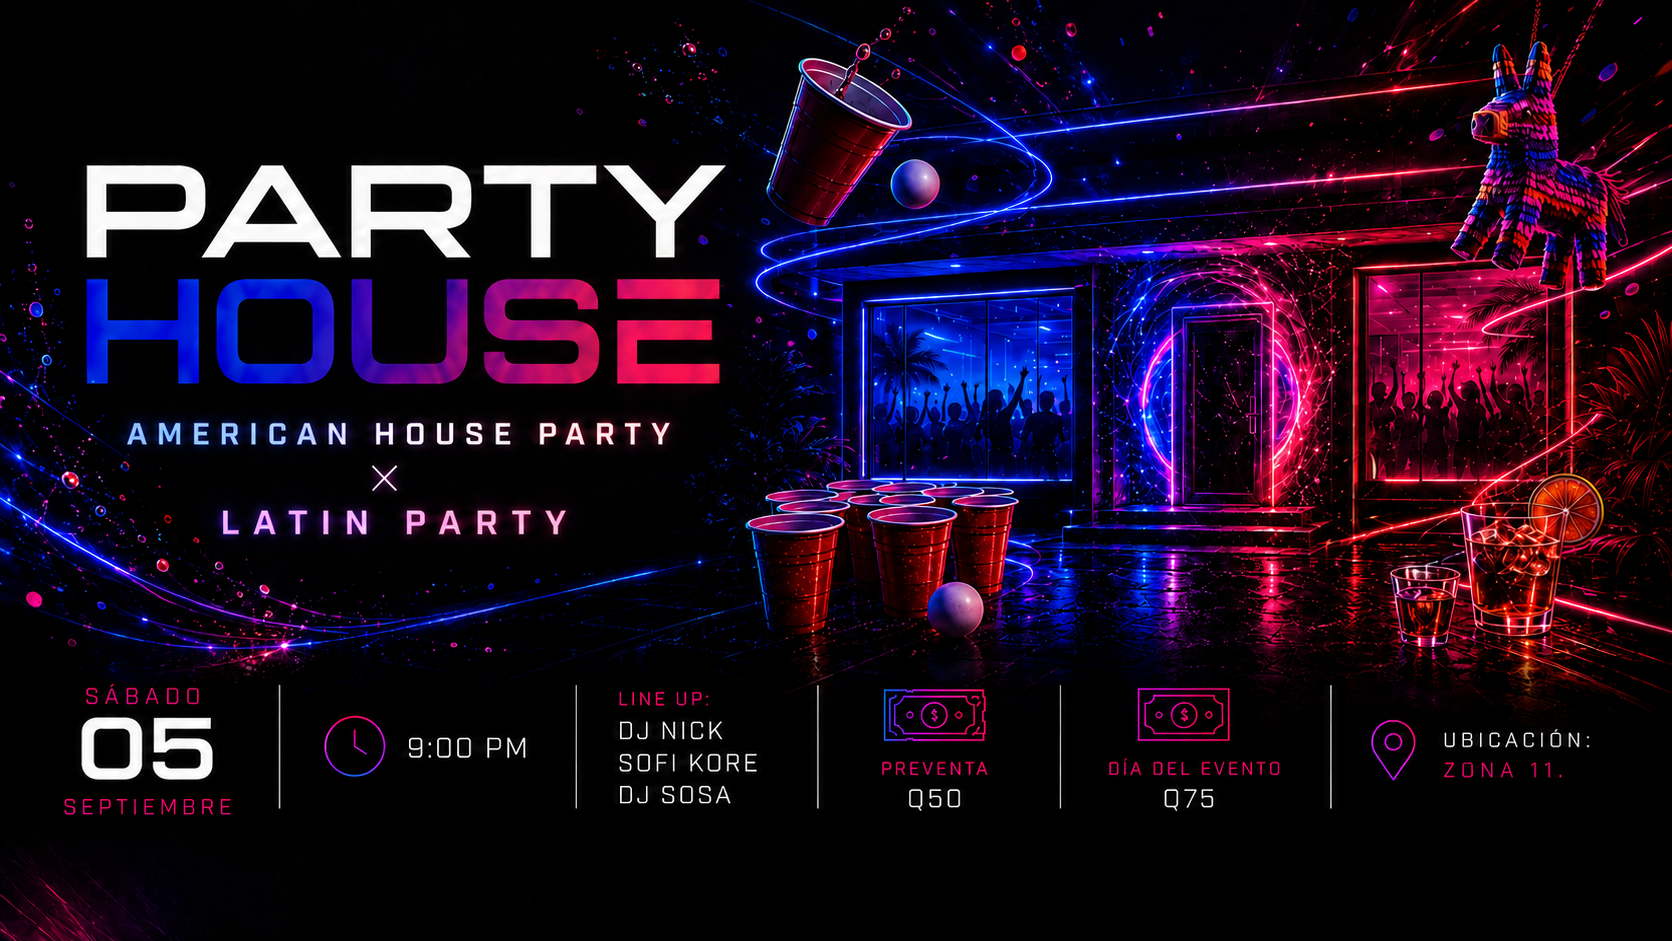
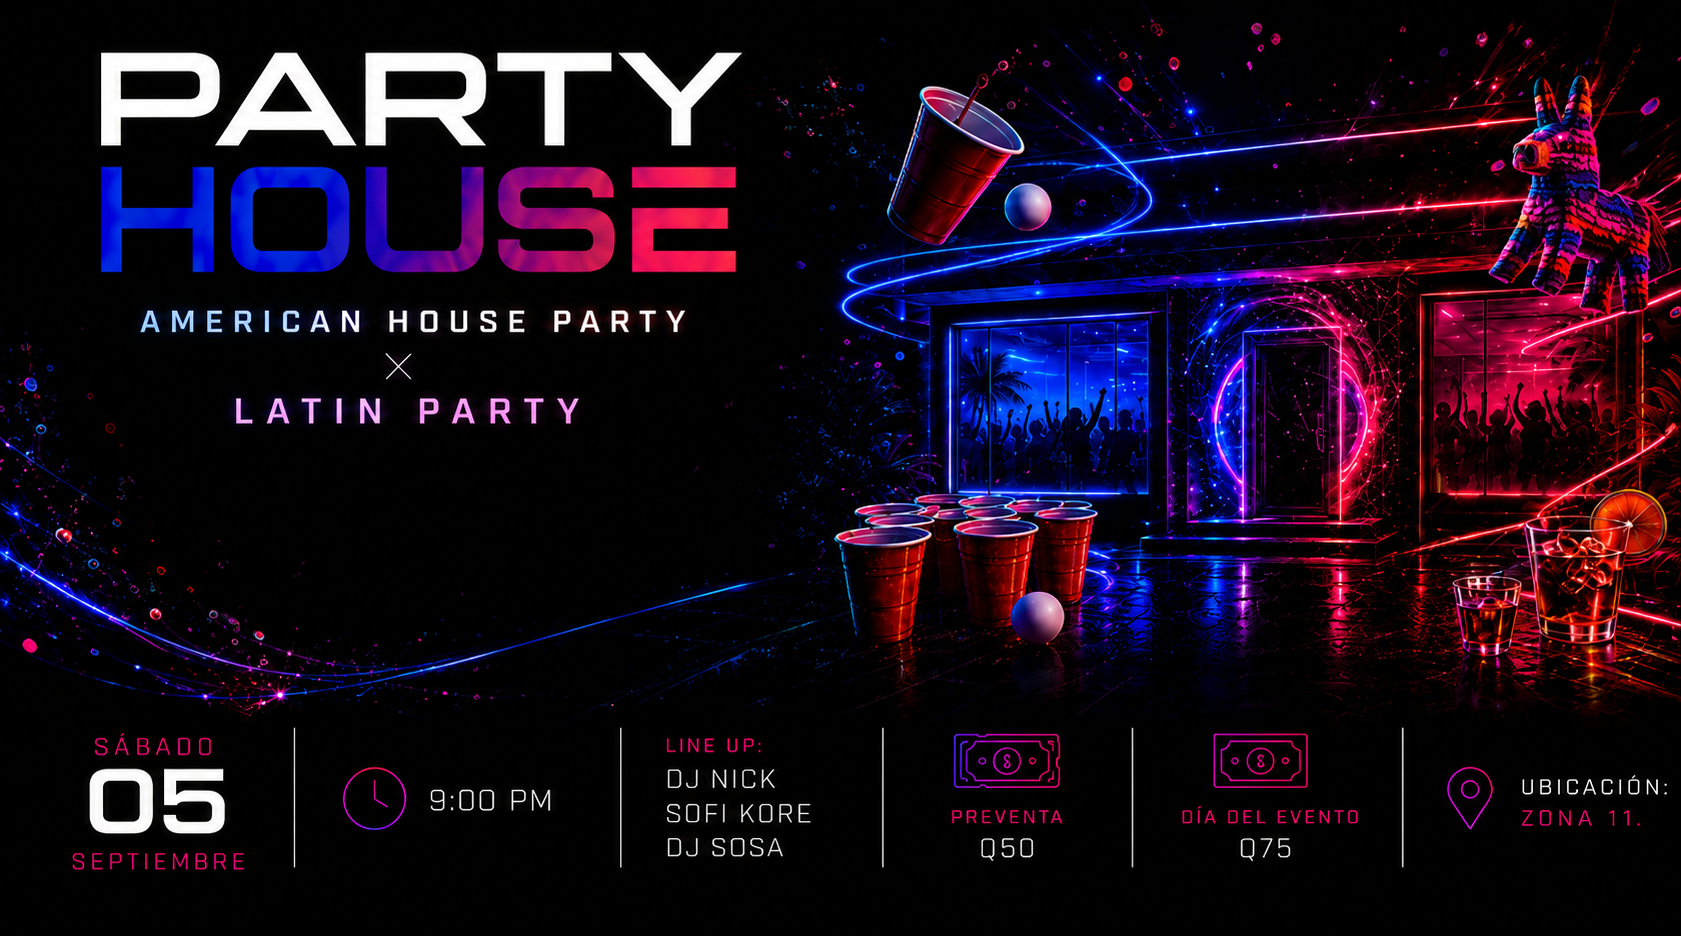
fix: corrige guestName en complimentary y limpia import en downloadRoutes; incluye parche de descuentos y actualizaciones de frontend

diff --git a/landing/index.html b/landing/index.html
@@ -20,28 +20,37 @@
   <link rel="stylesheet" href="/css/components.css"/>
   <style>
     *, *::before, *::after { box-sizing: border-box; }
-    html, body { height: 100%; margin: 0; background: #000; overflow: hidden; }
+    html, body { margin: 0; background: #000; overflow: hidden; height: 100%; }
 
-    /* Flyer cubre toda la pantalla */
-    .flyer {
-      position: fixed;
-      inset: 0;
+    /* Hero — ocupa todo el viewport sin scroll */
+    .hero {
+      position: relative;
       width: 100%;
-      height: 100%;
-      object-fit: cover;
-      object-position: center center;
+      height: 100vh;
+      display: flex;
+      align-items: center;
+      justify-content: center;
+      line-height: 0;
+    }
+
+    /* Flyer — imagen completa visible, sin recorte */
+    .flyer {
+      display: block;
+      max-width: 100%;
+      max-height: 100vh;
+      width: auto;
+      height: auto;
       z-index: 1;
     }
 
     /* CTA - desktop */
     .cta-wrap {
-      position: fixed;
+      position: absolute;
       z-index: 20;
-      top: 65%;
-      left: 22%;
+      top: 58%;
+      left: 50%;
       transform: translateX(-50%);
-      width: 61.3%;
-      max-width: 640px;
+      width: min(61.3%, 640px);
     }
 
     .cta-btn {
@@ -67,14 +76,15 @@
 
     /* Mobile */
     @media (max-width: 640px) {
-      html, body { overflow: auto; height: auto; }
+      .hero { aspect-ratio: auto; }
 
       .flyer {
         position: relative;
+        inset: auto;
         display: block;
         width: 100%;
         height: auto;
-        object-fit: contain;
+        object-fit: unset;
         content: url('/img/vertical.png');
       }
 
@@ -97,10 +107,11 @@
 </head>
 <body>
 
-  <img class="flyer" src="/img/horizontal.png" alt="Party House"/>
-
-  <div class="cta-wrap">
-    <a href="/evento.html?c=PH586" class="cta-btn">CONSEGUIR MI ENTRADA &rarr;</a>
+  <div class="hero">
+    <img class="flyer" src="/img/horizontal.png" alt="Party House"/>
+    <div class="cta-wrap">
+      <a href="/evento.html?c=PH586" class="cta-btn">CONSEGUIR MI ENTRADA &rarr;</a>
+    </div>
   </div>
 
 </body>

diff --git a/landing/evento.html b/landing/evento.html
@@ -841,33 +841,33 @@
       .ev-left { padding: var(--sp-12) var(--sp-10) var(--sp-10); }
 
       .ev-left__brand {
-        font-size: 13px;
+        font-size: 9px;
         letter-spacing: .32em;
         margin-bottom: var(--sp-6);
       }
 
       .ev-left__eyebrow {
-        font-size: 13px;
+        font-size: 9px;
         letter-spacing: .3em;
         margin-bottom: var(--sp-4);
       }
 
       .ev-left__title {
-        font-size: clamp(81px, 8.9vw, 136px);
+        font-size: clamp(57px, 6.2vw, 95px);
         margin-bottom: var(--sp-10);
       }
 
-      .ev-left__price-value { font-size: clamp(66px, 6.9vw, 107px); }
+      .ev-left__price-value { font-size: clamp(46px, 4.8vw, 75px); }
 
       .ev-left__meta { gap: var(--sp-5); margin-bottom: var(--sp-10); }
 
-      .ev-meta-row__label { font-size: 13px; letter-spacing: .22em; min-width: 60px; }
-      .ev-meta-row__value { font-size: 19px; }
+      .ev-meta-row__label { font-size: 9px; letter-spacing: .22em; min-width: 60px; }
+      .ev-meta-row__value { font-size: 13px; }
 
       .ev-left__price-block  { padding-top: var(--sp-8); }
-      .ev-left__price-label  { font-size: 13px; letter-spacing: .2em; }
+      .ev-left__price-label  { font-size: 9px; letter-spacing: .2em; }
 
-      .ev-left__availability { font-size: 14px; }
+      .ev-left__availability { font-size: 10px; }
 
     }
   </style>

diff --git a/server/routes/adminRoutes.js b/server/routes/adminRoutes.js
@@ -426,7 +426,7 @@ router.post('/complimentary/:code',
     const { data: rpcData, error: rpcErr } = await supabase.rpc('rpc_create_complimentary_order', { p_code: ctx.code });
     if (rpcErr || !rpcData || rpcData.error) return res.status(500).json({ error: (rpcData && rpcData.error) || 'db_order_failed' });
 
-    const guestName = ((ctx.guest && ctx.guest.first_name) || '' + ' ' + (ctx.guest && ctx.guest.last_name) || '').trim();
+    const guestName = [ctx.guest && ctx.guest.first_name, ctx.guest && ctx.guest.last_name].filter(Boolean).join(' ').trim() || 'Invitado/a';
     try {
       const result = await issueTickets({
         orderId: rpcData.order_id, eventId: ctx.event_id, buyerId: null,

diff --git a/server/routes/downloadRoutes.js b/server/routes/downloadRoutes.js
@@ -12,7 +12,7 @@
 const { Router } = require('express');
 const { param } = require('express-validator');
 const { getSupabase } = require('../db/supabase');
-const { verifyJwt, generateDownloadToken } = require('../services/QrService');
+// QrService se importa dentro de cada handler (verifyToken)
 const { generateTicketPdf } = require('../services/PdfService');
 const { asyncHandler } = require('../middleware/errorHandler');
 const { downloadLimiter } = require('../middleware/security');

diff --git a/landing/admin.html b/landing/admin.html
@@ -27,7 +27,7 @@
     .adm-login__wrap {
       width: 100%;
       max-width: 420px;
-      zoom: 1.2;
+      zoom: 0.84;
     }
 
     .adm-login__brand {
@@ -628,7 +628,7 @@
     /* ── Escala global del admin (sin tocar login) ──────────────────── */
     @media (min-width: 769px) {
       .adm-layout {
-        zoom: 1.25;
+        zoom: 0.875;
       }
     }
 
